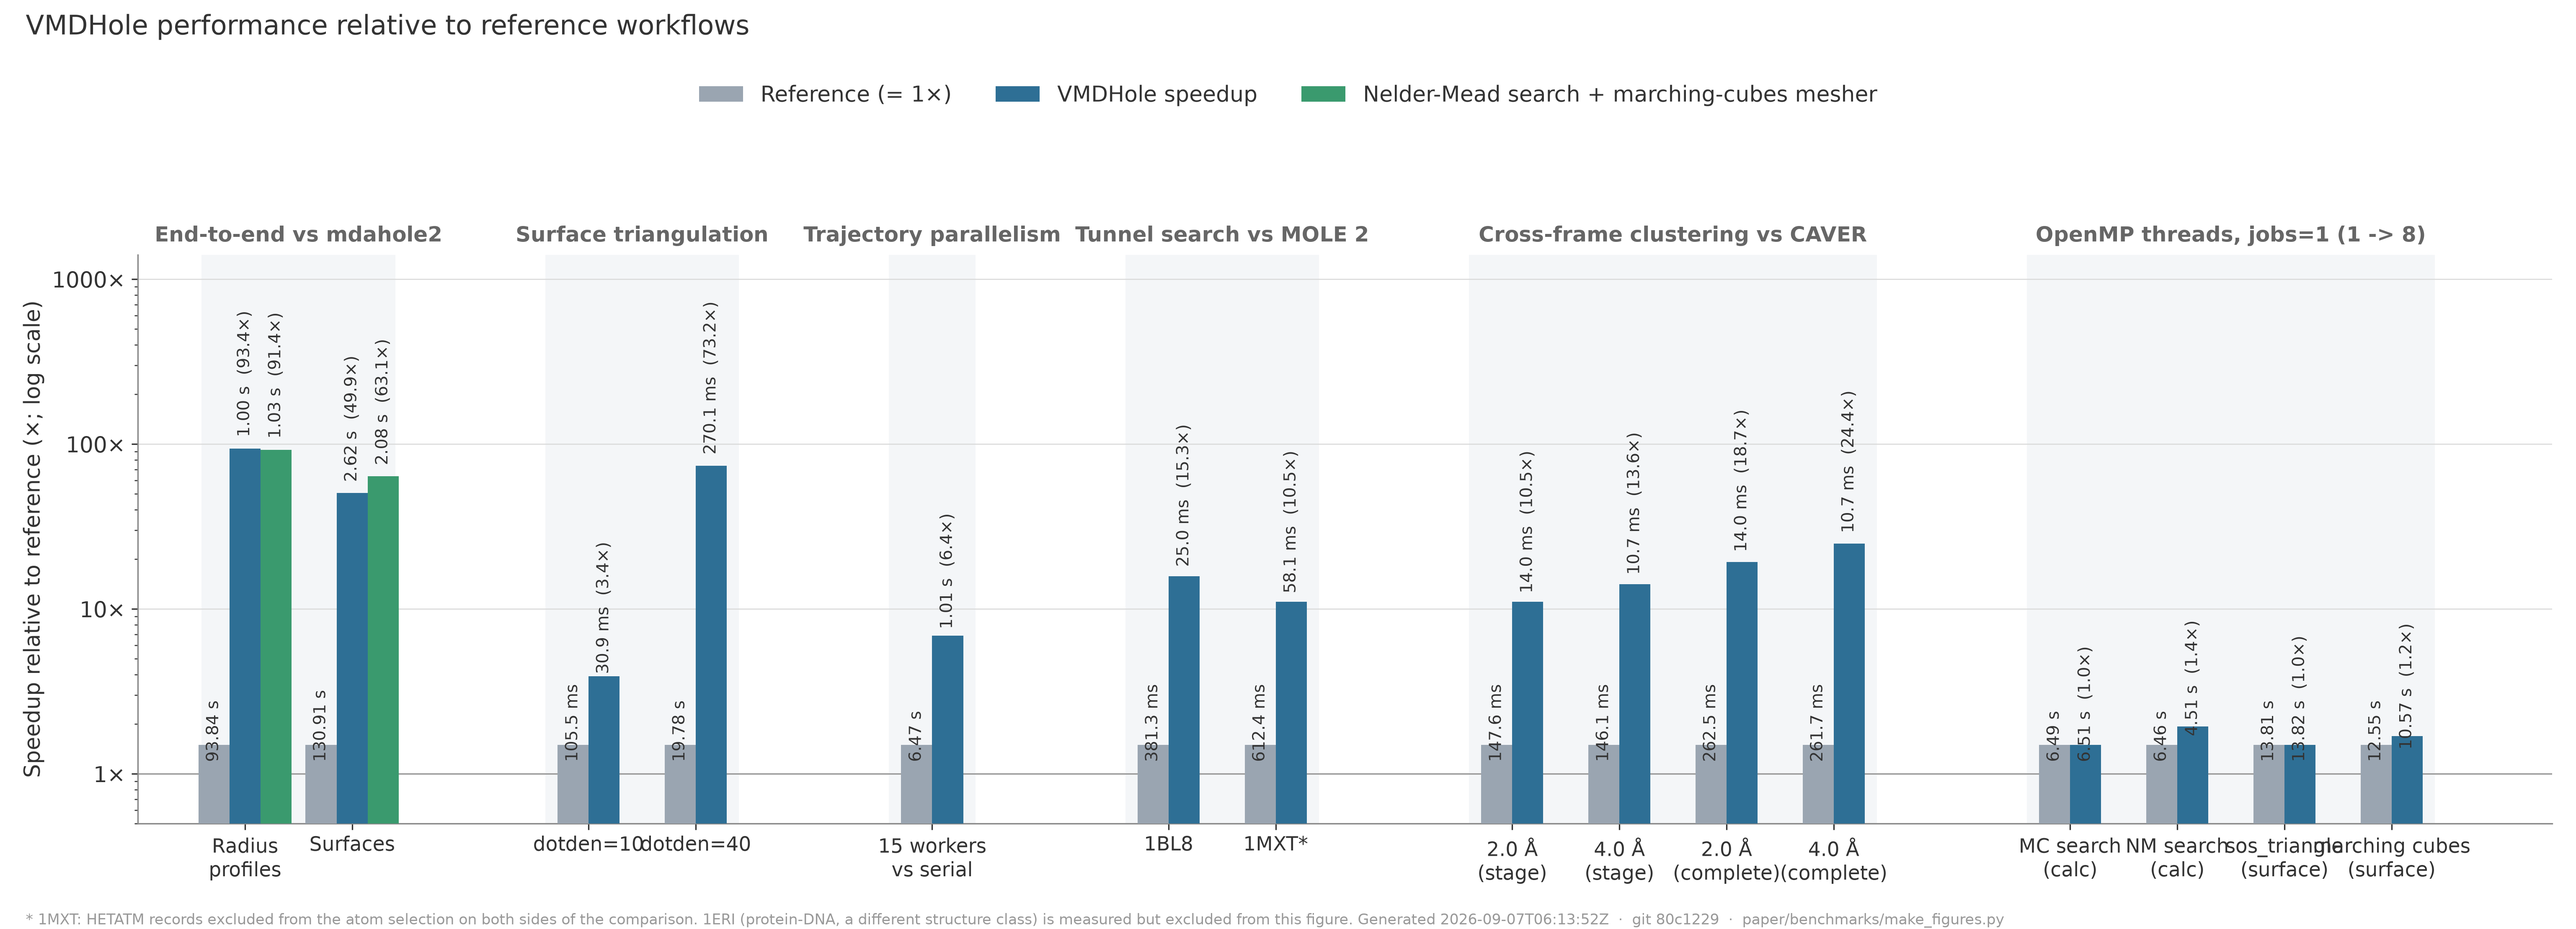
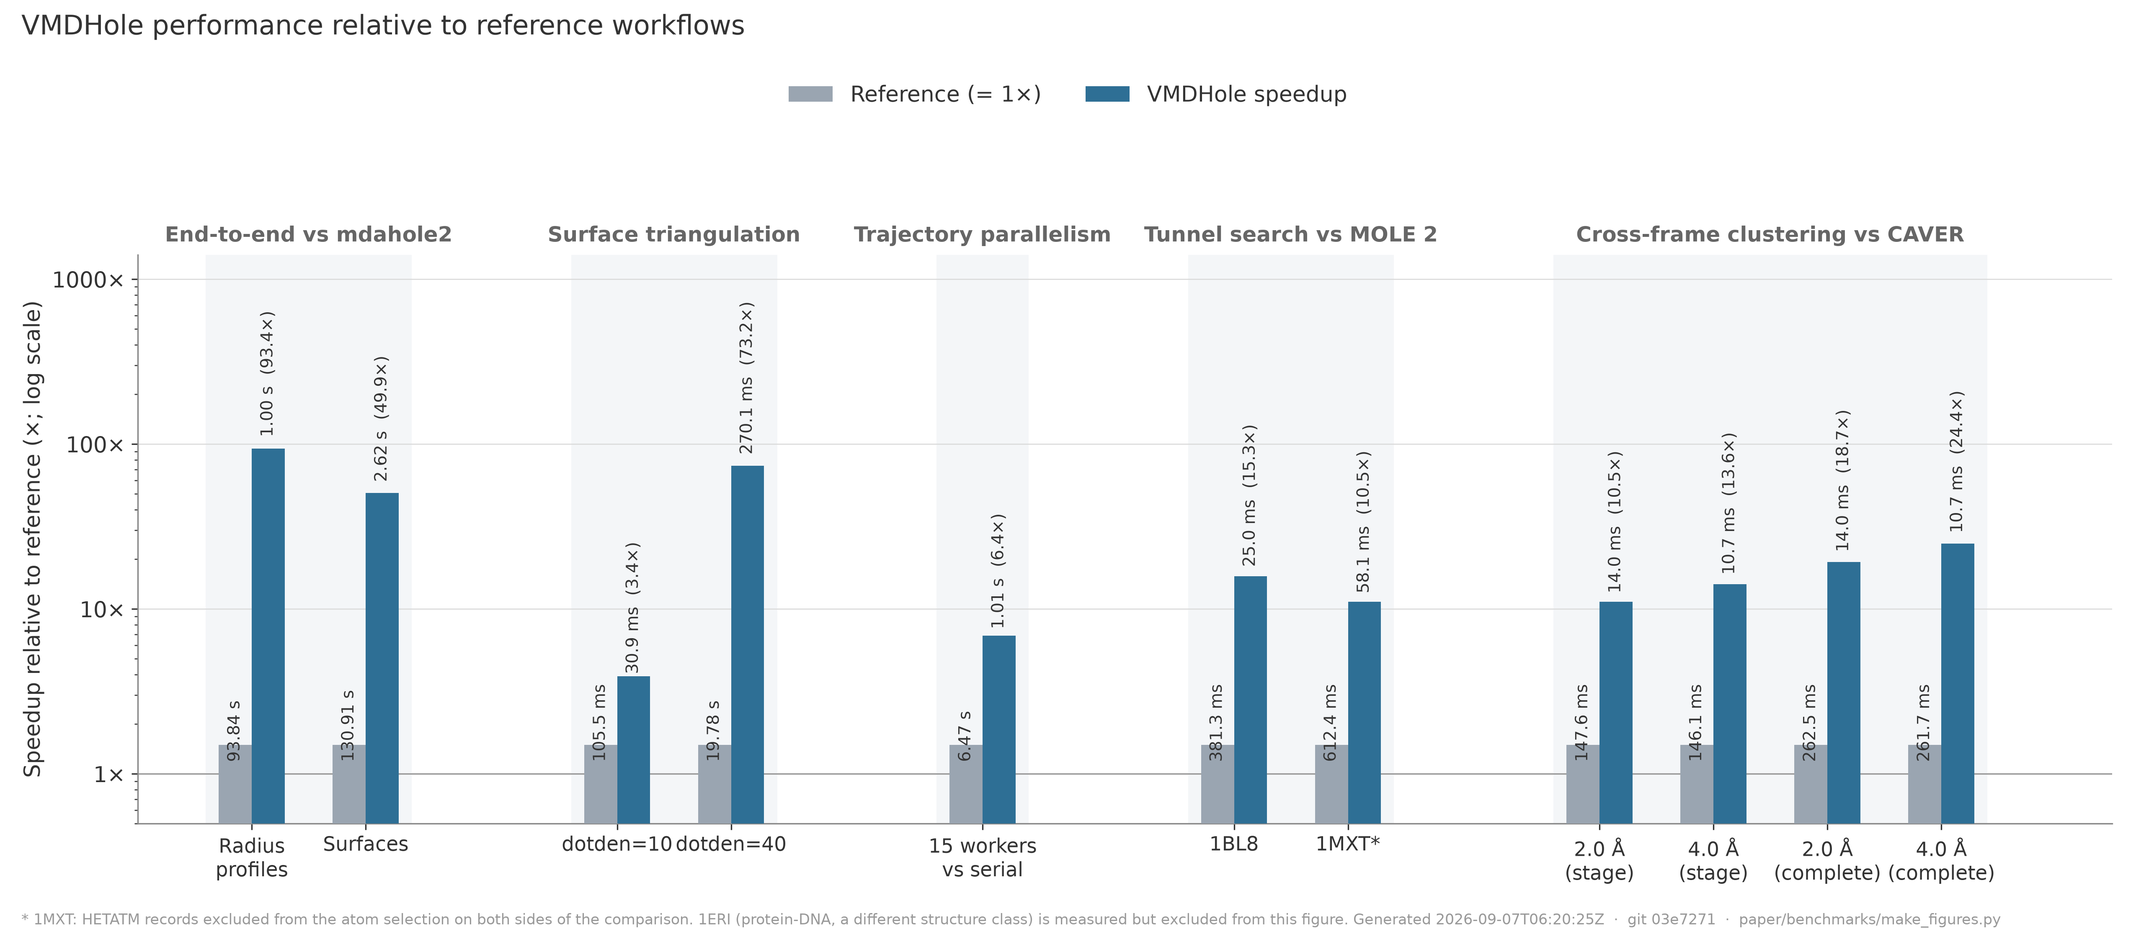
bench: drop the NM/mesher figure bar and the OpenMP thread-scaling panel

diff --git a/paper/benchmarks/results/FINAL_NUMERICAL_RESULTS.md b/paper/benchmarks/results/FINAL_NUMERICAL_RESULTS.md
@@ -215,18 +215,17 @@ bars in Figure S2.
 
 ## Figure S2
 
-`results/fig_performance.png/.pdf/.eps` regenerated from these CSVs plus
-`thread_scaling.csv`; the figure's own agreement check passed (`FIG_RESULT
-PASS`, see `fig_performance_provenance.txt`). The end-to-end groups carry a
-third bar: the plugin with its own Nelder-Mead search (radius profiles) and
-with that search plus the marching-cubes mesher (surfaces). `docs/images/
+`results/fig_performance.png/.pdf/.eps` regenerated by the `figures` stage
+from these exact CSVs; the stage's own agreement check passed (`FIG_RESULT
+PASS`, see `fig_performance_provenance.txt`). `docs/images/
 performance_summary.png` is a copy of the PNG.
 
-A sixth section, "OpenMP threads, jobs=1 (1 -> 8)", isolates each engine's own
-thread scaling from the parallel worker-pool effect the other panels measure:
-Monte Carlo search and `sos_triangle` show no benefit from OpenMP threads
-(1.00x both); the Nelder-Mead search and the marching-cubes mesher do
-(1.43x, 1.19x), because their own internal parallelism is what most of their
-speedup over the released pipeline comes from - it saturates by 2-4 threads
-(`thread_scaling.csv` header machine: AMD Ryzen 7 7700X, 8 physical cores).
+The plugin's own Nelder-Mead search and marching-cubes mesher were measured
+separately from this figure (see the 2026-09-07 session notes): 1.0-1.7x
+over the released Monte Carlo/`sos_triangle` pipeline per frame, most of it
+from OpenMP threading inside the new engines rather than the algorithm
+itself, and washed out almost entirely once the 15-worker pool the figure's
+own end-to-end panel measures becomes the bottleneck. Not shown here by
+request - the comparison is real but easy to over-read at this figure's
+scale.
 
